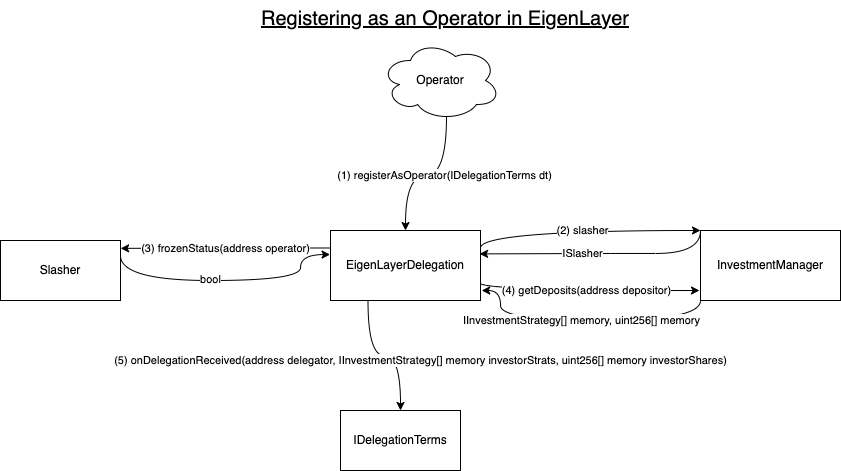
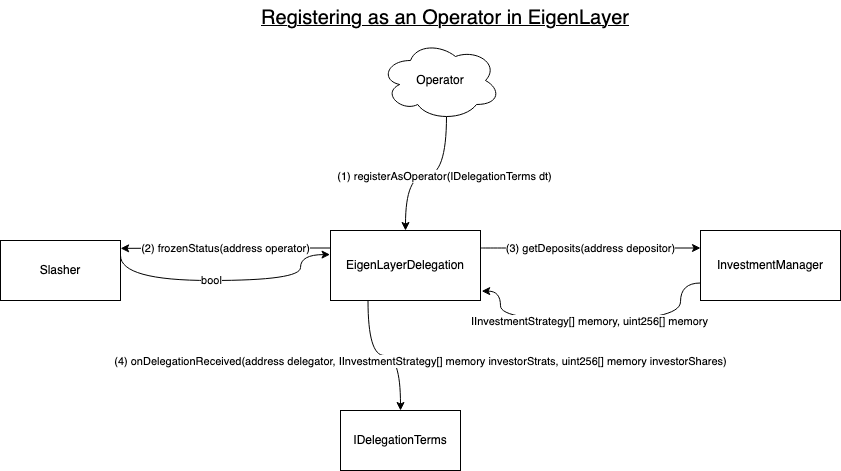
add detail on registering as an operator
also fix the diagram

diff --git a/docs/EigenLayer-delegation-flow.md b/docs/EigenLayer-delegation-flow.md
@@ -5,6 +5,13 @@ While delegating to an operator is designed to be a simple process from the stak
 
 In order to be delegated *to*, an operator must have first called `EigenLayerDelegation.registerAsOperator`. If a staker tries to delegate to someone who has not previously registered as an operator, their transaction will fail.
 
+When an operator registers in EigenLayer, the following flow of calls between contracts occurs:
+
+![Registering as an Operator in EigenLayer](images/EL_operator_registration.png?raw=true "Registering as an Operator in EigenLayer")
+
+1. The would-be operator calls `EigenLayerDelegation.registerAsOperator`, providing either a `DelegationTerms`-type contract or an EOA as input. The EigenLayerDelegation contract stores the `DelegationTerms`-type contract provided by the operator, which may act as an intermediary to help facilitate the relationship between the operator and any stakers who delegate to them.
+All of the remaining steps (2-4) proceed as outlined in the delegation process below; the EigenLayerDelegation contract treats things as if the operator has delegated to themselves.
+
 For a staker to delegate to an operator, the staker must either:
 1. Call `EigenLayerDelegation.delegateTo` directly
 OR
@@ -12,7 +19,7 @@ OR
 
 In either case, the end result is the same, and the flow of calls between contracts looks identical:
 
-![Delegating in EigenLayer](images/EL_delegating.png?raw=true "Title")
+![Delegating in EigenLayer](images/EL_delegating.png?raw=true "Delegating in EigenLayer")
 
 1. As outlined above, either the staker themselves calls `EigenLayerDelegation.delegateTo`, or the operator (or a third party) calls `EigenLayerDelegation.delegateToBySignature`, in which case the EigenLayerDelegation contract verifies the provided ECDSA signature
 2. The EigenLayerDelegation contract calls `Slasher.isFrozen` to verify that the operator being delegated to is not frozen
